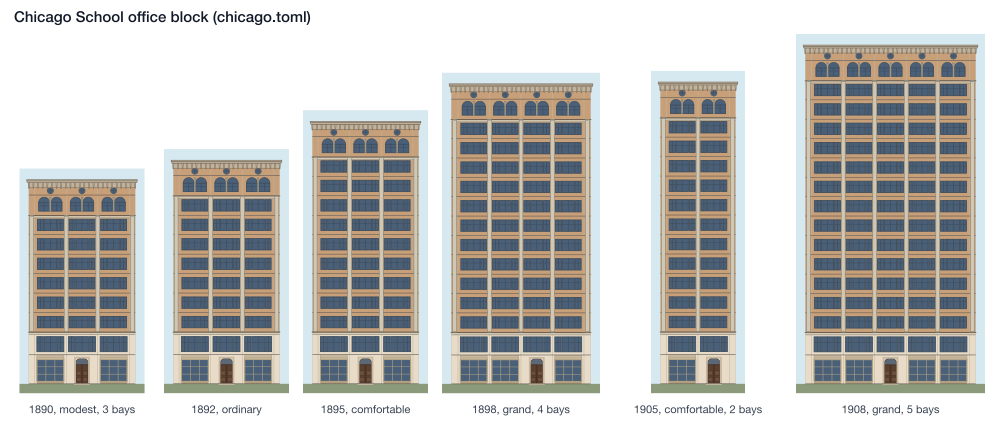
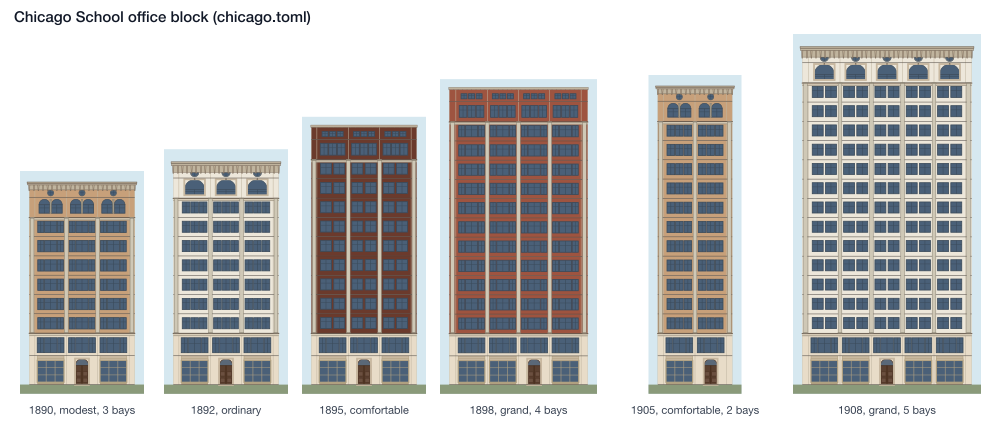
Vary the styling of the setback tower and the Chicago block
Both kept the law and the frame and wore one outfit. The rule files now
give each a few real variants, picked by the seed (standing for the
architect: same envelope, same frame, a different hand):

- setback tower: crown (stepped spire, ziggurat, lantern), skin (buff
  brick, limestone, dark brick, terracotta), fenestration (paired windows
  over spandrels, vertical strips, punched windows);
- Chicago: skin (terracotta, white glazed, dark brick, red brick), shaft
  window (Chicago 1:2:1, Wainwright paired, three equal), capital (arcaded
  with roundels, plain attic band, Sullivan's one arch a bay under oculi
  and a deep slab).

A test checks six seeds give six different dressings of the same frame and
that every crown and capital appears. README strips give each building its
own seed.

diff --git a/dev/harness/readme_strips.py b/dev/harness/readme_strips.py
@@ -68,20 +68,20 @@ def strips():
             ("1800, straight cornice", a(CanalSite(7.0, 1800, K.ORDINARY))[0]),
         ]),
         "chicago": ("Chicago School office block (chicago.toml)", [
-            ("1890, modest, 3 bays", c(OfficeSite(20.5, 1890, K.MODEST))[0]),
-            ("1892, ordinary", c(OfficeSite(20.5, 1892, K.ORDINARY))[0]),
-            ("1895, comfortable", c(OfficeSite(20.5, 1895, K.COMFORTABLE))[0]),
-            ("1898, grand, 4 bays", c(OfficeSite(27.0, 1898, K.GRAND))[0]),
-            ("1905, comfortable, 2 bays", c(OfficeSite(14.5, 1905, K.COMFORTABLE))[0]),
-            ("1908, grand, 5 bays", c(OfficeSite(33.0, 1908, K.GRAND))[0]),
+            ("1890, modest, 3 bays", c(OfficeSite(20.5, 1890, K.MODEST, seed=0))[0]),
+            ("1892, ordinary", c(OfficeSite(20.5, 1892, K.ORDINARY, seed=1))[0]),
+            ("1895, comfortable", c(OfficeSite(20.5, 1895, K.COMFORTABLE, seed=2))[0]),
+            ("1898, grand, 4 bays", c(OfficeSite(27.0, 1898, K.GRAND, seed=3))[0]),
+            ("1905, comfortable, 2 bays", c(OfficeSite(14.5, 1905, K.COMFORTABLE, seed=4))[0]),
+            ("1908, grand, 5 bays", c(OfficeSite(33.0, 1908, K.GRAND, seed=5))[0]),
         ]),
         "deco": ("New York setback tower, 1916 zoning (deco.toml)", [
-            ("9 m street, modest", d(TowerSite(30.0, 9.0, 1927, K.MODEST))[0]),
-            ("12 m street, ordinary", d(TowerSite(30.0, 12.0, 1928, K.ORDINARY))[0]),
-            ("18 m street, comfortable", d(TowerSite(36.0, 18.0, 1929, K.COMFORTABLE))[0]),
-            ("18 m street, grand", d(TowerSite(36.0, 18.0, 1929, K.GRAND))[0]),
-            ("24 m street, grand", d(TowerSite(42.0, 24.0, 1930, K.GRAND))[0]),
-            ("30 m street, grand, wide lot", d(TowerSite(50.0, 30.0, 1931, K.GRAND))[0]),
+            ("9 m street, modest", d(TowerSite(30.0, 9.0, 1927, K.MODEST, seed=0))[0]),
+            ("12 m street, ordinary", d(TowerSite(30.0, 12.0, 1928, K.ORDINARY, seed=1))[0]),
+            ("18 m street, comfortable", d(TowerSite(36.0, 18.0, 1929, K.COMFORTABLE, seed=2))[0]),
+            ("18 m street, grand", d(TowerSite(36.0, 18.0, 1929, K.GRAND, seed=3))[0]),
+            ("24 m street, grand", d(TowerSite(42.0, 24.0, 1930, K.GRAND, seed=4))[0]),
+            ("30 m street, grand, wide lot", d(TowerSite(50.0, 30.0, 1931, K.GRAND, seed=5))[0]),
         ]),
         "georgian": ("Georgian London terrace (georgian.toml)", [
             ("1760, 2 bays", g(TerraceSite(5.6, 1760, K.MODEST))[0]),

diff --git a/tests/unit/test_styles.py b/tests/unit/test_styles.py
@@ -64,7 +64,7 @@ def test_every_venetian_storey_is_wing_centre_wing_and_the_nobile_opens_in_a_pol
 
 
 def test_the_chicago_shaft_is_uniform_its_piers_run_through_and_its_windows_are_1_2_1():
-    building, _ = generate_chicago(OfficeSite(20.5, 1895, BuildingClass.COMFORTABLE))
+    building, _ = generate_chicago(OfficeSite(20.5, 1895, BuildingClass.COMFORTABLE, seed=0))
     storeys = [n for n in building.children if n.kind == "storey"]
     shaft = [s for s in storeys if s.props["role"] == "shaft"]
     assert len({round(s.props["h"], 6) for s in shaft}) == 1
@@ -74,3 +74,19 @@ def test_the_chicago_shaft_is_uniform_its_piers_run_through_and_its_windows_are_
     lights = sorted((o for o in bay.children if o.kind == "opening"), key=lambda o: o.props["x"])
     w = [o.props["w"] for o in lights]
     assert len(w) == 3 and w[1] == pytest.approx(2 * w[0]) and w[0] == pytest.approx(w[2])
+
+
+def test_the_seed_dresses_the_same_frame_differently():
+    from buildings.typologies.deco.grammar import TowerSite, derive_deco
+
+    chicago = {
+        tuple(derive_chicago(OfficeSite(20.5, 1895, BuildingClass.COMFORTABLE, seed=s))[0].attrs[k] for k in ("skin", "window", "crown"))
+        for s in range(6)
+    }
+    deco = {
+        tuple(derive_deco(TowerSite(36.0, 18.0, 1929, BuildingClass.GRAND, seed=s))[0].attrs[k] for k in ("crown", "skin", "fenestration"))
+        for s in range(6)
+    }
+    assert len(chicago) == 6 and len(deco) == 6
+    assert {c[2] for c in chicago} == {"arcade", "attic_band", "oculi"}
+    assert {d[0] for d in deco} == {"spire", "ziggurat", "lantern"}
